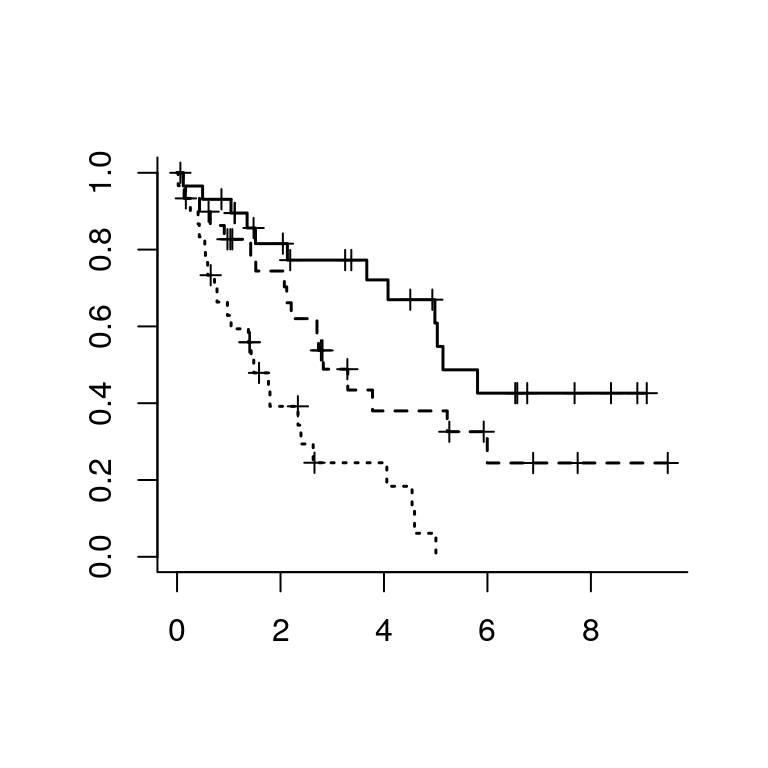
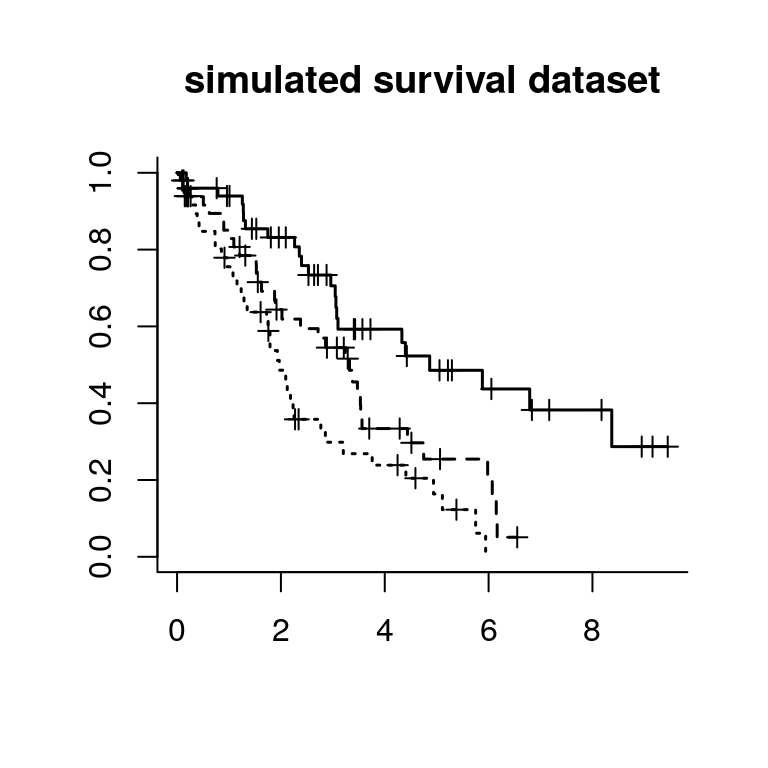
adding consensus.fxns.R

diff --git a/README.md b/README.md
@@ -1,12 +1,6 @@
 survClust vignette
 ================
 
-    ## Loading required package: foreach
-
-    ## Loading required package: iterators
-
-    ## Loading required package: parallel
-
 ## Installation
 
 ``` r
@@ -64,38 +58,42 @@ below.
 
 ######################
 #simulation to test survival related + survival unrelated
-#total samples = 90, total features = 60
+#total samples = 150, total features = 150
 
-set.seed(10)
-n1 = 30 #class1
-n2 = 30 #class2
-n3 = 30 #class3
+set.seed(112)
+n1 = 50 #class1
+n2 = 50 #class2
+n3 = 50 #class3
 n = n1+n2+n3
-p = 5 #survival related features
-q = 50 #noise
+p = 15 #survival related features (10%)
+q = 120 #noise
 
-#class1 ~ N(0,1), class2 ~ N(-1.5,1), class3 ~ N(1.5,1)
+#class1 ~ N(1.5,1), class2 ~ N(0,1), class3 ~ N(-1.5,1)
+
 rnames = paste0("S",1:n)
 x = NULL
-x1a = matrix(rnorm(n1*p), ncol=p)
-x2a = matrix(rnorm(n1*p, -1.5,1), ncol=p)
-x3a = matrix(rnorm(n1*p, 1.5, 1), ncol=p)
+x1a = matrix(rnorm(n1*p, 1.5, 1), ncol=p)
+x2a = matrix(rnorm(n1*p), ncol=p)
+x3a = matrix(rnorm(n1*p, -1.5,1), ncol=p)
 xa = rbind(x1a,x2a,x3a)
 xb = matrix(rnorm(n*q), ncol=q)
 x[[1]] = cbind(xa,xb)
 
-# sample 5 other informant features, but scramble them to break survival association.
+     
+################
+# sample 30 other informant features, but scramble them.
 permute.idx<-sample(1:length(rnames),length(rnames))
-x1a = matrix(rnorm(n1*p), ncol=p)
-x2a = matrix(rnorm(n1*p, -1.5,1), ncol=p)
-x3a = matrix(rnorm(n1*p, 1.5, 1), ncol=p)
+#-'ve HR
+x1a = matrix(rnorm(n1*p, 1.5, 1), ncol=p)
+x2a = matrix(rnorm(n1*p), ncol=p)
+x3a = matrix(rnorm(n1*p, -1.5,1), ncol=p)
 xa = rbind(x1a,x2a,x3a)
-x[[1]] = cbind(x[[1]],xa[permute.idx,])
 
-rownames(x[[1]]) = rnames
+x[[1]] = cbind(x[[1]],xa[permute.idx,])
+rownames(x[[1]]) =  rnames
 
 #true class labels
-truth = c(rep(1,30), rep(2,30), rep(3,30)); names(truth) = rnames
+truth = c(rep(1,50), rep(2,50), rep(3,50)); names(truth) = rnames
 ```
 
 Next we simulate a overall survival dataset with 3 groups with median
@@ -104,11 +102,11 @@ survival time as 2yrs, 3yrs and 4yrs respectively.
 ``` r
 
 
-set.seed(8688)
-l1 = log(2)/6
-l2 = log(2)/4
+set.seed(112)
+l1 = log(2)/4.5
+l2 = log(2)/3.25
 l3 = log(2)/2
-n = 30
+n = 50
 
 s1<-rexp(n,rate=l1)
 c1<-runif(n,0,10)
@@ -126,7 +124,7 @@ time = c(t1,t2,t3)
 survdat = cbind(time, event)
 rownames(survdat) = rnames
 #survfit(Surv(time,event) ~ truth)
-plot(survfit(Surv(time,event) ~ truth), lty=1:3, mark.time=T, bty="l",lwd=1.5)
+plot(survfit(Surv(time,event) ~ truth), lty=1:3, mark.time=T, bty="l",lwd=1.5, main="simulated survival dataset")
 ```
 
 <img src="README_figures/README-unnamed-chunk-3-1.png" width="384" style="display: block; margin: auto;" />
@@ -151,14 +149,14 @@ ptm <- proc.time()
 cv.fit<-foreach(kk=2:5) %dopar% cvrounds(x,survdat,kk)
 ```
 
-\#\#getDist
+## getDist
 
 ``` r
 
 dd = getDist(x,survdat)
 ```
 
-\#\#combineDist
+## combineDist
 
 ``` r
 
